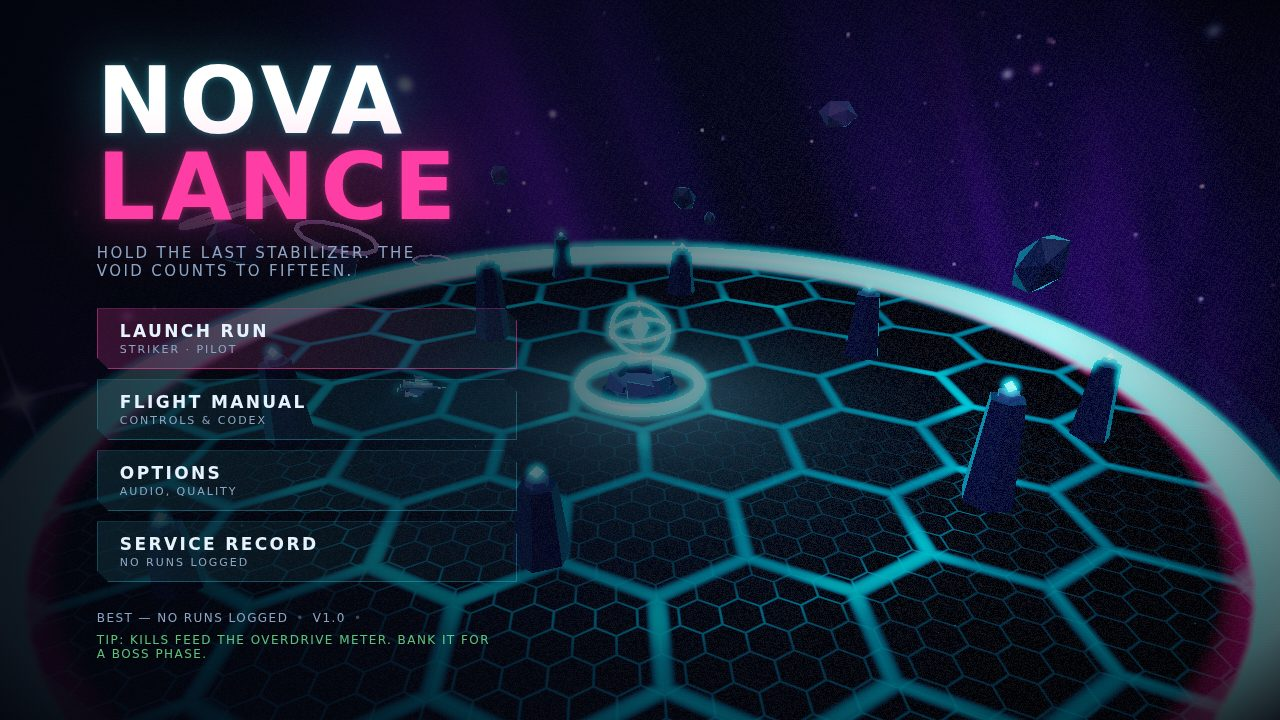
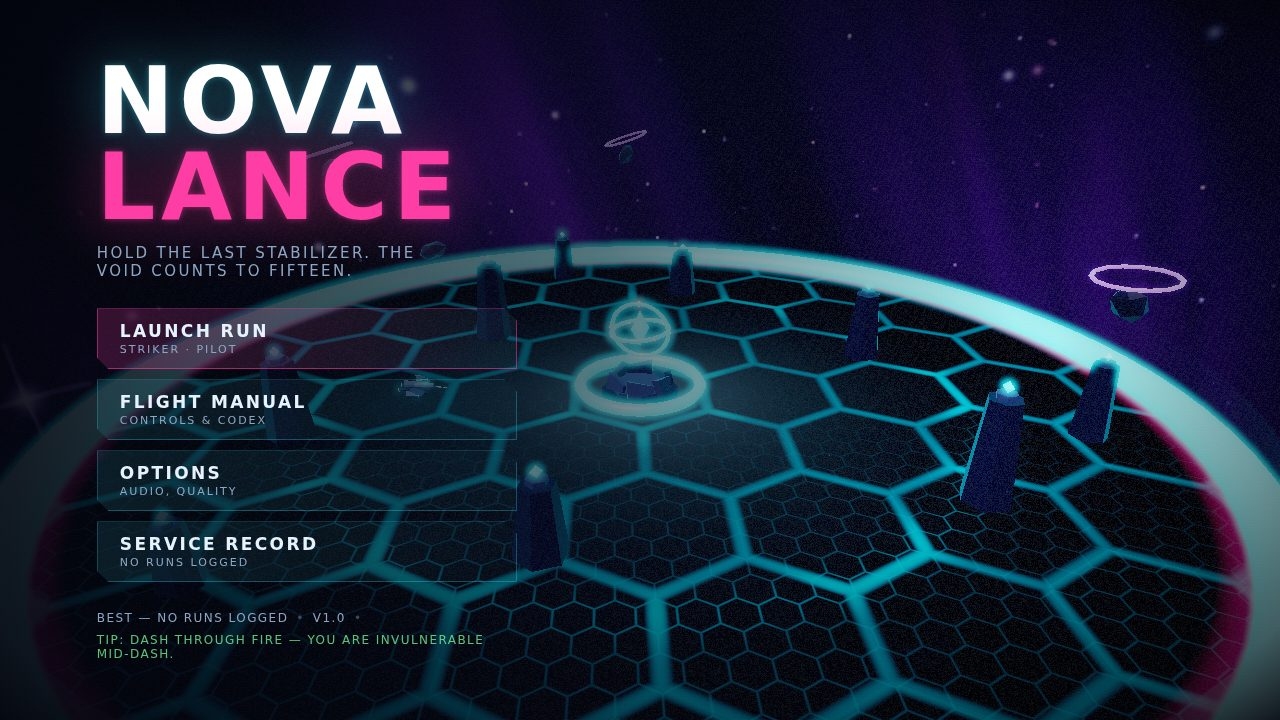
Harden the sim, add onboarding, and broaden the automated playtest
Fixes found by testing rather than reading:
- Bosses drifted over the central stabilizer, which absorbed every player shot
  and stalled the Warden fight at ~137s; they now hold a minimum radius.
- All directional models faced backwards (authored nose toward -Z, three
  orients along +Z), so ships and hostiles flew tail-first.
- Colours were converted sRGB->linear twice, crushing every albedo and letting
  the rim term dominate; the rim falloff was also far too wide on curved props.
- The energy and overdrive bars collapsed to zero height (flex:1 in a column)
  and to zero width on narrow screens.
- tick() accepted NaN/negative dt from non-rAF callers and poisoned the sim.
- Render targets from a lost WebGL context were disposed against the new one.
- A slow webfont CDN blocked first paint for ~13s; the stylesheet loads async.

Balance, tuned against bot campaigns (tools/balance.mjs):
- Flatter wave budget and faster spawn cadence: waves were spawn-rate bound and
  ran 45-70s; they now clear in 10-40s.
- Boss HP down ~25%, hostile damage now ramps with wave depth.
- Difficulty separates properly: recruit/pilot bots win, ace bots die at wave 10.

Feel and readability:
- Closer camera, two-target framing so a boss stays on screen, ground ring
  under the ship, brighter hull and void palettes, danger tint shifted to
  violet so magenta fire stays legible, two-tier hex deck with distance fade.
- Hit-stop on heavy kills, softer death flash, first-run onboarding prompts
[…]

diff --git a/dist/nova-lance.html b/dist/nova-lance.html
@@ -174,12 +174,14 @@ body.no-scanlines #scanlines{display:none;}
 .ship-cards{display:grid;grid-template-columns:repeat(auto-fit,minmax(210px,1fr));gap:12px;}
 .ship-card{
   position:relative;padding:16px;border:1px solid var(--line-soft);background:rgba(10,16,32,.7);cursor:pointer;
+  font:inherit;color:inherit;text-align:left;display:block;width:100%;
   clip-path:polygon(0 0,calc(100% - 14px) 0,100% 14px,100% 100%,14px 100%,0 calc(100% - 14px));
   transition:border-color .16s,background .16s,transform .16s;
 }
-.ship-card:hover{border-color:var(--line);transform:translateY(-2px);}
+.ship-card:hover,.ship-card:focus-visible{border-color:var(--line);transform:translateY(-2px);outline:none;box-shadow:0 0 0 1px var(--line);}
 .ship-card[data-selected]{border-color:var(--mag);background:rgba(40,12,32,.6);box-shadow:0 0 30px rgba(255,62,165,.2) inset;}
 .ship-card[data-locked]{opacity:.44;cursor:not-allowed;}
+.ship-card[data-locked]:hover{transform:none;}
 .ship-card h4{font-family:var(--f-display);letter-spacing:.2em;font-size:16px;color:#fff;margin-bottom:2px;}
 .ship-card .role{font-size:11px;letter-spacing:.2em;color:var(--cyan);text-transform:uppercase;margin-bottom:10px;}
 .ship-card .blurb{font-size:13px;color:var(--ink-dim);line-height:1.45;margin-bottom:10px;min-height:2.9em;}
@@ -256,6 +258,7 @@ input[type=range]::-moz-range-thumb{width:14px;height:14px;background:var(--cyan
 }
 .card:nth-child(1){animation-delay:.02s}.card:nth-child(2){animation-delay:.09s}.card:nth-child(3){animation-delay:.16s}.card:nth-child(4){animation-delay:.23s}
 @keyframes card-in{from{opacity:0;transform:translateY(22px) rotateX(8deg)}to{opacity:1;transform:none}}
+.card{font:inherit;color:inherit;text-align:left;}
 .card:hover,.card:focus-visible{transform:translateY(-6px);border-color:var(--tint,var(--cyan));box-shadow:0 0 34px -6px var(--tint,var(--cyan));outline:none;}
 .card .glyph{width:44px;height:44px;color:var(--tint,var(--cyan));}
 .card .glyph svg{width:100%;height:100%;filter:drop-shadow(0 0 8px currentColor);}
@@ -3296,7 +3299,7 @@ class Renderer {
     this._buildTargets(1, 1);
     this._buildPasses();
 
-    this._onLost = (e) => { e.preventDefault(); this.contextLost = true; };
+    this._onLost = (e) => { e.preventDefault(); this.contextLost = true; this._orphaned = true; };
     this._onRestored = () => { this.contextLost = false; this.resize(this._w, this._h, true); };
     canvas.addEventListener('webglcontextlost', this._onLost, false);
     canvas.addEventListener('webglcontextrestored', this._onRestored, false);
@@ -3348,8 +3351,13 @@ class Renderer {
 
   _disposeTargets() {
     for (const k of ['sceneRT', 'brightRT', 'blurA', 'blurB', 'blurC', 'blurD']) {
-      if (this[k]) { this[k].dispose(); this[k] = null; }
+      if (!this[k]) continue;
+      // After a context loss the GPU objects are already gone; calling dispose()
+      // makes three try to delete handles that no longer belong to the context.
+      if (!this._orphaned) this[k].dispose();
+      this[k] = null;
     }
+    this._orphaned = false;
   }
 
   _buildPasses() {
@@ -8317,9 +8325,11 @@ class UI {
     host.innerHTML = '';
     for (const ship of shipList()) {
       const unlocked = save.isShipUnlocked(ship.id);
-      const card = document.createElement('div');
+      const card = document.createElement('button');
+      card.type = 'button';
       card.className = 'ship-card';
-      if (!unlocked) card.dataset.locked = '1';
+      card.setAttribute('aria-pressed', String(ship.id === this._selectedShip));
+      if (!unlocked) { card.dataset.locked = '1'; card.disabled = true; }
       if (ship.id === this._selectedShip && unlocked) card.dataset.selected = '1';
       const bar = (label, v) => `<div class="ship-stat"><span>${label}</span><i style="--v:${Math.round(v * 100)}%"></i></div>`;
       card.innerHTML = `
@@ -8903,6 +8913,7 @@ class Game {
     this.enemyDamageMult = 1;
     this.rerolls = 1;
 
+    this.tutorial = null;
     this.frameStat = new RollingStat(120);
     this.simStat = new RollingStat(120);
     this._perfText = '';
@@ -9035,10 +9046,11 @@ class Game {
 
   applySettings() {
     const s = save.settings;
+    const reduce = window.matchMedia && window.matchMedia('(prefers-reduced-motion: reduce)').matches;
     this.audio.setVolumes(s.master, s.music, s.sfx);
     this.renderer.setQuality(s.quality);
     if (this.fx) this.fx.setBudget(this.renderer.settings.particleScale);
-    if (this.screen) this.screen.shakeScale = s.shake;
+    if (this.screen) this.screen.shakeScale = reduce ? Math.min(s.shake, 0.25) : s.shake;
     document.body.classList.toggle('no-scanlines', !s.scanlines);
     document.body.classList.toggle('no-flash', !s.flashes);
     if (this.camera) this.camera.enableLead = s.cameraRotate;
@@ -9132,6 +9144,49 @@ class Game {
     this.input.lock(0.3);
 
     this.after(1.0, () => this.waves.start(1));
+    this._startTutorial();
+  }
+
+  /**
+   * First-run onboarding: a handful of contextual prompts, worded for whatever
+   * device the player is actually holding, shown once per career.
+   */
+  _startTutorial() {
+    if (save.record.seenIntro) { this.tutorial = null; return; }
+    const touch = this.input.hasTouch;
+    const pad = this.input.scheme === 'gamepad';
+    const move = touch ? 'LEFT STICK' : pad ? 'LEFT STICK' : 'W A S D';
+    const aim = touch ? 'RIGHT STICK' : pad ? 'RIGHT STICK' : 'MOUSE';
+    const fire = touch ? 'AIM TO FIRE' : pad ? 'RIGHT TRIGGER' : 'HOLD LEFT MOUSE';
+    const dash = touch ? 'DASH BUTTON' : pad ? 'RB' : 'SPACE';
+    const pulse = touch ? 'PULSE BUTTON' : pad ? 'LEFT TRIGGER' : 'RIGHT MOUSE';
+    this.tutorial = {
+      steps: [
+        { at: 1.5, text: `${move} — THRUST` },
+        { at: 5.0, text: `${aim} — AIM · ${fire}` },
+        { at: 11.0, text: `${dash} — PHASE DASH, INVULNERABLE` },
+        { at: 20.0, text: `${pulse} — NOVA PULSE CLEARS BULLETS` },
+        { at: 34.0, text: 'SHIELD RECHARGES WHEN YOU STOP TAKING HITS' },
+      ],
+      i: 0,
+      t: 0,
+    };
+  }
+
+  _updateTutorial(dt) {
+    const tut = this.tutorial;
+    if (!tut) return;
+    tut.t += dt;
+    const step = tut.steps[tut.i];
+    if (step && tut.t >= step.at) {
+      tut.i++;
+      this.ui.toast(step.text, 'warn');
+    }
+    if (tut.i >= tut.steps.length) {
+      this.tutorial = null;
+      save.record.seenIntro = true;
+      save.save();
+    }
   }
 
   restartRun() {
@@ -9376,6 +9431,13 @@ class Game {
       this.waves.waveKills++;
       if (p.stats.lifesteal > 0) p.heal(p.stats.lifesteal);
       p.gainOverdrive(4);
+      // A frame of hitch on heavy kills only — on swarm chaff it would read as
+      // stutter rather than impact.
+      if ((e.type.tier >= 2 || e.elite) && this.time - (this._lastKillStop || -9) > 0.22) {
+        this._lastKillStop = this.time;
+        this.screen.stop(e.elite ? 0.05 : 0.032);
+        this.screen.addTrauma(0.05);
+      }
     }
     if (opts.isBossKill) this.runStats.kills++;
   }
@@ -9493,6 +9555,10 @@ class Game {
 
   /** One simulation + presentation step. Split out so tests can drive it. */
   tick(dtReal) {
+    // Guard here rather than only in the rAF loop: debug/test callers and a
+    // clock that jumps backwards must never be able to inject NaN into the sim.
+    if (!Number.isFinite(dtReal) || dtReal < 0) dtReal = 0;
+    if (dtReal > MAX_DT) dtReal = MAX_DT;
     this.frame++;
     this.screen.update(dtReal);
     this.input.sample(dtReal);
@@ -9577,6 +9643,7 @@ class Game {
 
     this.shadows.begin();
     this._runTimers(dt);
+    this._updateTutorial(dt);
     p.update(dt, this.input, this._aimWorld);
     if (p.alive) this.shadows.push(p.position.x, p.position.y, p.position.z, 1.7, 1);
     this.enemies.update(dt);

diff --git a/src/game.js b/src/game.js
@@ -56,6 +56,7 @@ export class Game {
     this.enemyDamageMult = 1;
     this.rerolls = 1;
 
+    this.tutorial = null;
     this.frameStat = new RollingStat(120);
     this.simStat = new RollingStat(120);
     this._perfText = '';
@@ -188,10 +189,11 @@ export class Game {
 
   applySettings() {
     const s = save.settings;
+    const reduce = window.matchMedia && window.matchMedia('(prefers-reduced-motion: reduce)').matches;
     this.audio.setVolumes(s.master, s.music, s.sfx);
     this.renderer.setQuality(s.quality);
     if (this.fx) this.fx.setBudget(this.renderer.settings.particleScale);
-    if (this.screen) this.screen.shakeScale = s.shake;
+    if (this.screen) this.screen.shakeScale = reduce ? Math.min(s.shake, 0.25) : s.shake;
     document.body.classList.toggle('no-scanlines', !s.scanlines);
     document.body.classList.toggle('no-flash', !s.flashes);
     if (this.camera) this.camera.enableLead = s.cameraRotate;
@@ -285,6 +287,49 @@ export class Game {
     this.input.lock(0.3);
 
     this.after(1.0, () => this.waves.start(1));
+    this._startTutorial();
+  }
+
+  /**
+   * First-run onboarding: a handful of contextual prompts, worded for whatever
+   * device the player is actually holding, shown once per career.
+   */
+  _startTutorial() {
+    if (save.record.seenIntro) { this.tutorial = null; return; }
+    const touch = this.input.hasTouch;
+    const pad = this.input.scheme === 'gamepad';
+    const move = touch ? 'LEFT STICK' : pad ? 'LEFT STICK' : 'W A S D';
+    const aim = touch ? 'RIGHT STICK' : pad ? 'RIGHT STICK' : 'MOUSE';
+    const fire = touch ? 'AIM TO FIRE' : pad ? 'RIGHT TRIGGER' : 'HOLD LEFT MOUSE';
+    const dash = touch ? 'DASH BUTTON' : pad ? 'RB' : 'SPACE';
+    const pulse = touch ? 'PULSE BUTTON' : pad ? 'LEFT TRIGGER' : 'RIGHT MOUSE';
+    this.tutorial = {
+      steps: [
+        { at: 1.5, text: `${move} — THRUST` },
+        { at: 5.0, text: `${aim} — AIM · ${fire}` },
+        { at: 11.0, text: `${dash} — PHASE DASH, INVULNERABLE` },
+        { at: 20.0, text: `${pulse} — NOVA PULSE CLEARS BULLETS` },
+        { at: 34.0, text: 'SHIELD RECHARGES WHEN YOU STOP TAKING HITS' },
+      ],
+      i: 0,
+      t: 0,
+    };
+  }
+
+  _updateTutorial(dt) {
+    const tut = this.tutorial;
+    if (!tut) return;
+    tut.t += dt;
+    const step = tut.steps[tut.i];
+    if (step && tut.t >= step.at) {
+      tut.i++;
+      this.ui.toast(step.text, 'warn');
+    }
+    if (tut.i >= tut.steps.length) {
+      this.tutorial = null;
+      save.record.seenIntro = true;
+      save.save();
+    }
   }
 
   restartRun() {
@@ -529,6 +574,13 @@ export class Game {
       this.waves.waveKills++;
       if (p.stats.lifesteal > 0) p.heal(p.stats.lifesteal);
       p.gainOverdrive(4);
+      // A frame of hitch on heavy kills only — on swarm chaff it would read as
+      // stutter rather than impact.
+      if ((e.type.tier >= 2 || e.elite) && this.time - (this._lastKillStop || -9) > 0.22) {
+        this._lastKillStop = this.time;
+        this.screen.stop(e.elite ? 0.05 : 0.032);
+        this.screen.addTrauma(0.05);
+      }
     }
     if (opts.isBossKill) this.runStats.kills++;
   }
@@ -646,6 +698,10 @@ export class Game {
 
   /** One simulation + presentation step. Split out so tests can drive it. */
   tick(dtReal) {
+    // Guard here rather than only in the rAF loop: debug/test callers and a
+    // clock that jumps backwards must never be able to inject NaN into the sim.
+    if (!Number.isFinite(dtReal) || dtReal < 0) dtReal = 0;
+    if (dtReal > MAX_DT) dtReal = MAX_DT;
     this.frame++;
     this.screen.update(dtReal);
     this.input.sample(dtReal);
@@ -730,6 +786,7 @@ export class Game {
 
     this.shadows.begin();
     this._runTimers(dt);
+    this._updateTutorial(dt);
     p.update(dt, this.input, this._aimWorld);
     if (p.alive) this.shadows.push(p.position.x, p.position.y, p.position.z, 1.7, 1);
     this.enemies.update(dt);

diff --git a/src/ui/style.css b/src/ui/style.css
@@ -156,12 +156,14 @@ body.no-scanlines #scanlines{display:none;}
 .ship-cards{display:grid;grid-template-columns:repeat(auto-fit,minmax(210px,1fr));gap:12px;}
 .ship-card{
   position:relative;padding:16px;border:1px solid var(--line-soft);background:rgba(10,16,32,.7);cursor:pointer;
+  font:inherit;color:inherit;text-align:left;display:block;width:100%;
   clip-path:polygon(0 0,calc(100% - 14px) 0,100% 14px,100% 100%,14px 100%,0 calc(100% - 14px));
   transition:border-color .16s,background .16s,transform .16s;
 }
-.ship-card:hover{border-color:var(--line);transform:translateY(-2px);}
+.ship-card:hover,.ship-card:focus-visible{border-color:var(--line);transform:translateY(-2px);outline:none;box-shadow:0 0 0 1px var(--line);}
 .ship-card[data-selected]{border-color:var(--mag);background:rgba(40,12,32,.6);box-shadow:0 0 30px rgba(255,62,165,.2) inset;}
 .ship-card[data-locked]{opacity:.44;cursor:not-allowed;}
+.ship-card[data-locked]:hover{transform:none;}
 .ship-card h4{font-family:var(--f-display);letter-spacing:.2em;font-size:16px;color:#fff;margin-bottom:2px;}
 .ship-card .role{font-size:11px;letter-spacing:.2em;color:var(--cyan);text-transform:uppercase;margin-bottom:10px;}
 .ship-card .blurb{font-size:13px;color:var(--ink-dim);line-height:1.45;margin-bottom:10px;min-height:2.9em;}
@@ -238,6 +240,7 @@ input[type=range]::-moz-range-thumb{width:14px;height:14px;background:var(--cyan
 }
 .card:nth-child(1){animation-delay:.02s}.card:nth-child(2){animation-delay:.09s}.card:nth-child(3){animation-delay:.16s}.card:nth-child(4){animation-delay:.23s}
 @keyframes card-in{from{opacity:0;transform:translateY(22px) rotateX(8deg)}to{opacity:1;transform:none}}
+.card{font:inherit;color:inherit;text-align:left;}
 .card:hover,.card:focus-visible{transform:translateY(-6px);border-color:var(--tint,var(--cyan));box-shadow:0 0 34px -6px var(--tint,var(--cyan));outline:none;}
 .card .glyph{width:44px;height:44px;color:var(--tint,var(--cyan));}
 .card .glyph svg{width:100%;height:100%;filter:drop-shadow(0 0 8px currentColor);}

diff --git a/src/render/renderer.js b/src/render/renderer.js
@@ -59,7 +59,7 @@ export class Renderer {
     this._buildTargets(1, 1);
     this._buildPasses();
 
-    this._onLost = (e) => { e.preventDefault(); this.contextLost = true; };
+    this._onLost = (e) => { e.preventDefault(); this.contextLost = true; this._orphaned = true; };
     this._onRestored = () => { this.contextLost = false; this.resize(this._w, this._h, true); };
     canvas.addEventListener('webglcontextlost', this._onLost, false);
     canvas.addEventListener('webglcontextrestored', this._onRestored, false);
@@ -111,8 +111,13 @@ export class Renderer {
 
   _disposeTargets() {
     for (const k of ['sceneRT', 'brightRT', 'blurA', 'blurB', 'blurC', 'blurD']) {
-      if (this[k]) { this[k].dispose(); this[k] = null; }
+      if (!this[k]) continue;
+      // After a context loss the GPU objects are already gone; calling dispose()
+      // makes three try to delete handles that no longer belong to the context.
+      if (!this._orphaned) this[k].dispose();
+      this[k] = null;
     }
+    this._orphaned = false;
   }
 
   _buildPasses() {

diff --git a/src/ui/ui.js b/src/ui/ui.js
@@ -185,9 +185,11 @@ export class UI {
     host.innerHTML = '';
     for (const ship of shipList()) {
       const unlocked = save.isShipUnlocked(ship.id);
-      const card = document.createElement('div');
+      const card = document.createElement('button');
+      card.type = 'button';
       card.className = 'ship-card';
-      if (!unlocked) card.dataset.locked = '1';
+      card.setAttribute('aria-pressed', String(ship.id === this._selectedShip));
+      if (!unlocked) { card.dataset.locked = '1'; card.disabled = true; }
       if (ship.id === this._selectedShip && unlocked) card.dataset.selected = '1';
       const bar = (label, v) => `<div class="ship-stat"><span>${label}</span><i style="--v:${Math.round(v * 100)}%"></i></div>`;
       card.innerHTML = `
